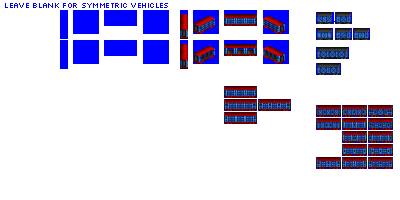
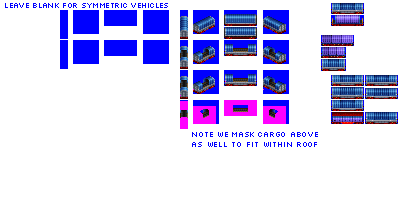
Change: WIP on gen 5 Pony enclosed car carriers

Changed region(s): [[0.48, 0.0, 1.0, 0.87], [0.45, 0.06, 0.75, 0.66]]

diff --git a/src/train.py b/src/train.py
@@ -2680,27 +2680,20 @@ class AutomobileEnclosedCarConsist(CarConsist):
         self.use_named_buyable_variant_group = "wagon_group_automobile_cars"
         self._joker = True
         # Graphics configuration
-        if self.gen in [1]:
-            self.roof_type = "pax_mail_clerestory"
-        elif self.gen in [2, 3]:
+        if self.gen in [3]:
             self.roof_type = "pax_mail_ridged"
-        else:
+        elif self.gen in [4]:
             self.roof_type = "pax_mail_smooth"
+        elif self.gen in [5]:
+            self.roof_type = None
         weathered_variants = {
             "unweathered": graphics_constants.body_recolour_CC1,
         }
         self.gestalt_graphics = GestaltGraphicsSimpleBodyColourRemaps(
             weathered_variants=weathered_variants,
             liveries=[
-                global_constants.freight_wagon_liveries[
-                    "RANDOM_FROM_CONSIST_LIVERIES_7"
-                ],
                 global_constants.freight_wagon_liveries["COMPANY_COLOUR_NO_WEATHERING"],
                 global_constants.freight_wagon_liveries["COMPLEMENT_COMPANY_COLOUR_NO_WEATHERING"],
-                # ruby before bauxite to ensure it appears in buy menu order for mixed version
-                # patching get_candidate_liveries_for_randomised_strategy to preserve order from wagon_livery_mixes would be better, but that's non-trivial right now
-                global_constants.freight_wagon_liveries["FREIGHT_RUBY"],
-                global_constants.freight_wagon_liveries["FREIGHT_BAUXITE"],
             ],
         )
 
